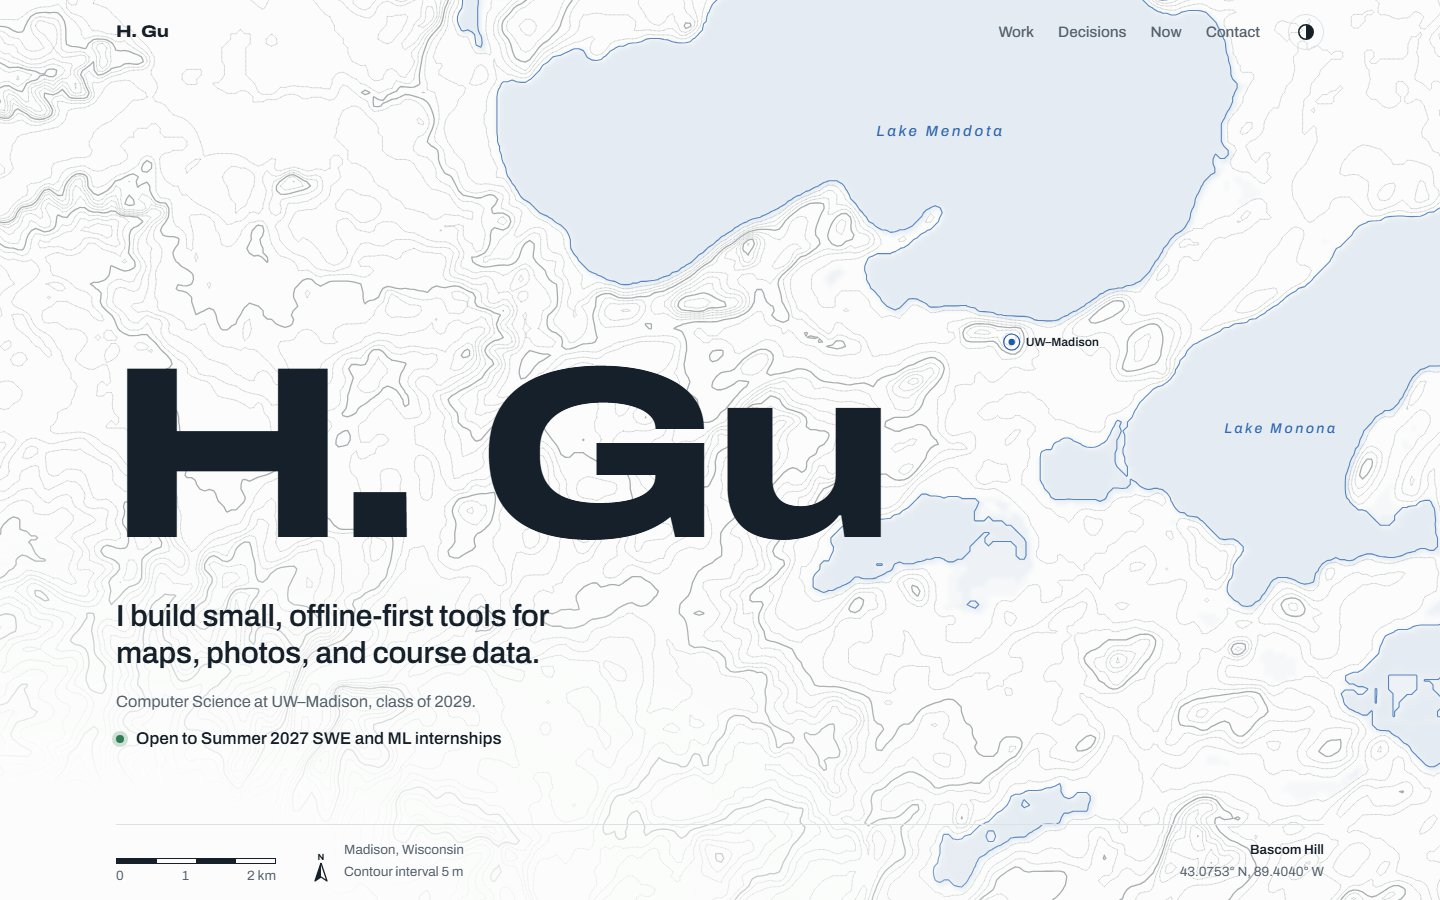
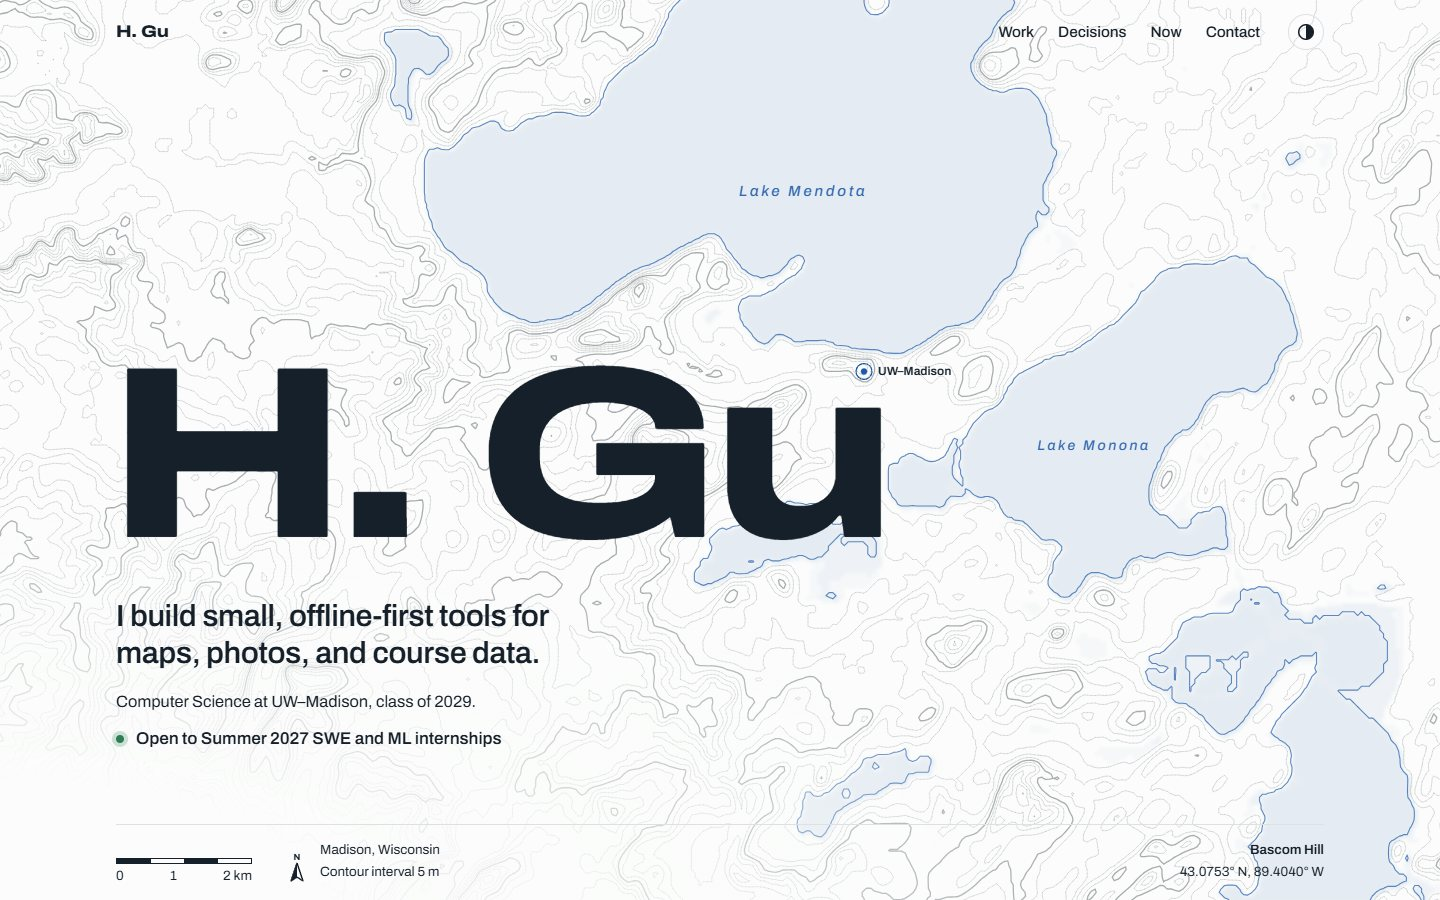
README: sections, work-page screenshots, scripts table

diff --git a/docs/screenshots.py b/docs/screenshots.py
@@ -1,36 +1,55 @@
-# Regenerate README screenshots of the site
+# Regenerate the README screenshots: the hero in both themes, three pages of the work section,
+# and the contact section. Needs Playwright with Chromium; WebGL runs on SwiftShader headless.
 import pathlib
 from playwright.sync_api import sync_playwright
 
 ROOT = pathlib.Path(__file__).resolve().parent.parent
 OUT = ROOT / "docs"
+# ?fx=2 keeps the WebGL tier on a software GPU; ?lab exposes filmGo() for turning pages
+URL = (ROOT / "index.html").as_uri() + "?fx=2&lab"
+ARGS = ["--lang=en-US", "--use-angle=swiftshader", "--enable-unsafe-swiftshader", "--ignore-gpu-blocklist"]
+
+
+def page(b, theme):
+    pg = b.new_page(viewport={"width": 1440, "height": 900}, locale="en-US")
+    # Dark is opt-in via the toggle, stored in localStorage; skip the once-per-session intro
+    pg.add_init_script(f"localStorage.setItem('theme', '{theme}'); sessionStorage.setItem('intro', '1')")
+    pg.goto(URL)
+    pg.wait_for_timeout(4000)
+    return pg
+
+
+def shot(pg, name):
+    pg.screenshot(path=str(OUT / f"{name}.jpg"), type="jpeg", quality=84)
+
+
+def to(pg, el_id, extra=0):
+    pg.evaluate(f"scrollTo({{top: document.getElementById('{el_id}').getBoundingClientRect().top + scrollY + {extra}, behavior: 'instant'}})")
+
 
 with sync_playwright() as p:
-    b = p.chromium.launch(headless=True, args=["--lang=en-US"])
+    b = p.chromium.launch(headless=True, args=ARGS)
     for theme in ["light", "dark"]:
-        page = b.new_page(viewport={"width": 1440, "height": 900}, locale="en-US", color_scheme=theme)
-        # Dark is opt-in via the toggle, stored in localStorage
-        page.add_init_script(f"localStorage.setItem('theme', '{theme}'); sessionStorage.setItem('intro', '1')")
-        page.goto((ROOT / "index.html").as_uri())
-        # Wait for the terrain reveal and intro to finish
-        page.wait_for_timeout(3500)
-        page.screenshot(path=str(OUT / f"{theme}.png"), full_page=False)
-        page.close()
-        if theme == "light":
-            # Case study with its figure drawn in
-            page = b.new_page(viewport={"width": 1440, "height": 900}, locale="en-US")
-            page.add_init_script("sessionStorage.setItem('intro', '1')")
-            page.goto((ROOT / "index.html").as_uri())
-            page.wait_for_timeout(1500)
-            page.evaluate("scrollTo({top: document.getElementById('datamap').getBoundingClientRect().top + scrollY, behavior: 'instant'})")
-            page.wait_for_timeout(2500)
-            page.screenshot(path=str(OUT / "work.png"), full_page=False)
-            page.close()
+        pg = page(b, theme)
+        shot(pg, theme)
+        pg.close()
+    # Work section: an overview page, a how-it-works page, and a project in the dark theme
+    pg = page(b, "light")
+    to(pg, "film"); pg.wait_for_timeout(6000)
+    shot(pg, "work-overview")
+    pg.evaluate("filmGo(1)"); pg.wait_for_timeout(6000)
+    shot(pg, "work-notes")
+    # Contact: click once so the particles gather into the word
+    to(pg, "contact"); pg.wait_for_timeout(2500)
+    box = pg.locator("#dust").bounding_box()
+    pg.mouse.click(box["x"] + 40, box["y"] + box["height"] - 40); pg.mouse.move(5, 5)
+    pg.wait_for_timeout(4000)
+    shot(pg, "contact")
+    pg.close()
+    pg = page(b, "dark")
+    to(pg, "film"); pg.wait_for_timeout(5000)
+    pg.evaluate("filmGo(2)"); pg.wait_for_timeout(6000)
+    shot(pg, "work-dark")
+    pg.close()
     b.close()
-
-# Shrink PNGs
-from PIL import Image
-for f in OUT.glob("*.png"):
-    Image.open(f).convert("RGB").save(f.with_suffix(".jpg"), quality=85, optimize=True)
-    f.unlink()
 print("saved to", OUT)

diff --git a/README.md b/README.md
@@ -1,33 +1,70 @@
 # webgrs.github.io
 
-Personal portfolio site: **<https://webgrs.github.io>**
+H. Gu's portfolio site, live at **<https://webgrs.github.io>**. It's a single `index.html`: no framework, no build step, no analytics. The one outside request is the Archivo typeface from Google Fonts.
 
-![Portfolio site, light theme](docs/light.jpg)
-
-![DataMap's case study on its deep blue panel, with the screenshot and a figure of its color ramps](docs/work.jpg)
+![The hero in the light theme: a contour map of Madison with the name over it](docs/light.jpg)
 
 <details><summary>Dark theme</summary>
 
-![Portfolio site, dark theme](docs/dark.jpg)
+![The hero in the dark theme](docs/dark.jpg)
 
 </details>
 
-One `index.html` plus project screenshots in `assets/`; no framework, trackers, or build step. It opens in the light theme; a toggle switches to dark and remembers the choice.
+## What's on the page
 
-- **Intro:** once per session, a loader over a pale aurora shader. The mark is five real contour lines of a hill northwest of Madison (43.132 N, 89.512 W, 337 m) drawn stroke by stroke; the percentage follows fonts, terrain decoding and the first map paint, then the sheet slides away.
-- **Hero:** a contour map of Madison drawn from real USGS 3DEP elevation data (5 m interval, marching squares in a worker on an OffscreenCanvas), revealed outward from campus. The contour under the pointer lights up in a wide, soft patch that spreads slowly and follows the pointer; on the WebGL tier the contours 5 m above and below light up with it, fainter. When the level changes the old patch shrinks back and fades where it stands, slowly enough that fast movement leaves a short trail rather than a flash. Hovering also reads out coordinates and elevation, and a north arrow draws itself in the legend.
-- **Effects tier:** 2 (WebGL), 1 (canvas) or 0 (lite), chosen from CPU threads, device memory, save-data, reduced motion and the GPU; a software GPU falls back to canvas. The console logs the tier and why. `?fx=0`, `?fx=1` or `?fx=2` forces a tier.
-- **Work index:** hovering a project shows its screenshot beside the cursor as a WebGL plane on a fine grid whose edges keep flowing in slow waves, so the rectangle moves on its own. Switching projects wipes one screenshot into the next. Pages opened from disk fall back to a plain box, since WebGL cannot read `file:` images. A stroke wave runs through the hovered name.
-- **Case studies:** each project is a full-screen panel coloured from its own screenshot: a deep base and two aurora hues sampled from the image's dominant colours, with the screenshot's own colours glowing out from behind it. A gradient carries the page from white into the first panel and back to white after the last. Near the seam between panels, one wheel notch or key press plays the whole transition to the next panel, and the rest of the gesture is held until it goes quiet, so a flick never stops halfway; inside a panel, scrolling is left alone. The panels scroll over one dark backdrop and each colour field fades in as its panel arrives and out as it leaves, so the colour changes continuously from project to project. A translucent liquid orb behind the content takes on each panel's colours. Every project has a small figure of how it works, and route-animator also gets a slowly turning globe of dotted continents (a 1° land mask built by `docs/land/build_land.py`) with its route and a few others.
-- **Background:** the same terrain continues behind the page as a faint sheet that scrolls slower than the content. Behind the decisions, particles run downhill over the real terrain; the tools and data sources are a constellation in which anything used by the same project is linked; a raymarched liquid sphere sits half hidden past the right edge of the Now list; a sine-wave signal line sits above the footer.
-- **Type:** the name rises letter by letter while Archivo's width axis opens from 62% to 125%. Headings arrive letter by letter with a slight turn and blur, paragraphs word by word, and the email address drops in. Screen readers get the plain text from a hidden copy.
-- **Contact:** Lake Mendota and Lake Monona again, as particles on springs. Every few seconds they sweep across into the word "hello" and back, changing from water blue to ink on the way. The pointer pushes them aside; a click switches the shape.
-- Copying the email swaps the text for "Copied" and underlines it; no ripple.
-- Motion respects `prefers-reduced-motion`, and every decorative canvas runs only while it is on screen.
+| Section | What it shows |
+|---|---|
+| Hero | A contour map of Madison drawn from real elevation data, with the name and a one-line intro |
+| Selected work | Six projects, each with its screenshot, notes and a figure of how it works |
+| Decisions I'd defend | Three engineering calls from those projects |
+| Stack and Now | The tools and data sources, linked by project; what's happening this term |
+| Contact | Email and GitHub, with the two lakes redrawn as particles |
 
-Motion patterns borrowed from Olivier Larose's [awwwards-landing-page](https://github.com/olivierlarose/awwwards-landing-page) (hover preview), [Lenis](https://github.com/darkroomengineering/lenis) (the `damp` function), Emil Kowalski's [animation tips](https://emilkowal.ski/ui/7-practical-animation-tips), and Vercel's [Web Interface Guidelines](https://github.com/vercel-labs/web-interface-guidelines). Some of the decorative effects started from a local gallery of motion studies.
+### Hero
 
-## Projects linked
+The map is traced from USGS 3DEP elevation (via Terrain Tiles on AWS) at a 5 m contour interval. Marching squares runs in a worker on an OffscreenCanvas, and the map reveals outward from campus. The contour under the pointer lights up in a soft patch that spreads slowly; on the WebGL tier the contours 5 m above and below light up with it, fainter. Hovering also reads out coordinates and elevation.
+
+Once per session a short loader plays first: five real contour lines of a hill northwest of Madison (43.132° N, 89.512° W, 337 m), drawn stroke by stroke while fonts and terrain load.
+
+### Selected work
+
+![route-animator's overview page: notes and a dotted globe on the left, the screenshot on the right with a teal orb behind it](docs/work-overview.jpg)
+
+The index lists the six projects. Hovering one shows its screenshot beside the cursor, with edges that ripple while the picture inside stays still.
+
+Below the index the projects become pages on one pinned stage: an overview with links and what it's built with, then the decisions behind it and a figure of how it works. Route-animator and photo-organizer have enough to say for two pages; the rest fit on one. Every page uses the same type scale, the largest at which all of them fit.
+
+![route-animator's second page: three points and the altitude figure](docs/work-notes.jpg)
+
+Paging works like slides. One wheel notch, key press or swipe plays the whole turn and holds the rest of the gesture until it goes quiet, so a transition never stops halfway; dragging the scrollbar lands on the nearest page. Between projects the screenshot glides to the other side while the next one dissolves in over it. Within a project only the notes change. The blocks of each page arrive in turn: the title letter by letter, then the summary, links, each point, and the figure, which draws itself in.
+
+Behind the screenshot sits a translucent liquid orb in a different colour for each project. It's drawn flat, a distance field with a rippling edge lit as if it were a sphere, so it costs little. With every project it swings to its next place and the new colour washes across it from the side it's heading to. A small droplet orbits it and merges with it now and then, and a few motes circle it on tilted orbits with fading trails, speeding up while it travels and easing off after.
+
+![uw-course-lookup in the dark theme, with a red orb behind the screenshot](docs/work-dark.jpg)
+
+### Contact
+
+![The contact section: the email address, mail and GitHub buttons, and particles forming the word hello](docs/contact.jpg)
+
+Lake Mendota and Lake Monona return as particles on springs. Every few seconds they sweep into the word "hello" and back, changing from water blue to ink, but never while the pointer is over them or for ten seconds after a click. The pointer pushes them aside and a click switches the shape. Clicking the address copies it.
+
+### Behind the page
+
+The terrain continues behind everything as a faint sheet that scrolls slower than the content (a ScrollTimeline, so it moves on the compositor), and fades out while the work pages fill the screen. Elsewhere: the stack as a constellation in which tools used by the same project are linked, a raymarched liquid sphere half past the edge of the Now list, and a sine-wave signal line above the footer.
+
+## Performance and accessibility
+
+The page picks an effects tier on load and logs the choice and the reason to the console:
+
+| Tier | What runs | Chosen when |
+|---|---|---|
+| 2 | WebGL map and effects | the default |
+| 1 | Canvas 2D | 4 or fewer CPU threads or 4 GB or less memory, or a software GPU |
+| 0 | Static | reduced motion, Save-Data, or 2 or fewer threads or 2 GB or less memory |
+
+`?fx=0`, `?fx=1` or `?fx=2` forces a tier. Every decorative canvas draws only while it's on screen, and canvases on work pages that aren't showing stop drawing. With `prefers-reduced-motion`, or in a window narrower than 900 px or shorter than 560 px, the work section becomes a plain list with the same content. Screen readers get plain-text copies of the animated headings. Secondary text is never grey; it's set in the ink colour and told apart by size and weight.
+
+## Projects shown
 
 - [route-animator](https://github.com/WEBGRS/route-animator): satellite-globe route videos in the browser
 - [uw-course-lookup](https://github.com/WEBGRS/uw-course-lookup): UW–Madison course lookup, linking to MadGrades and Rate My Professors
@@ -38,4 +75,23 @@ Motion patterns borrowed from Olivier Larose's [awwwards-landing-page](https://g
 
 ## Run locally
 
-Open `index.html` in a browser. `python docs/screenshots.py` rebuilds the images above. `python docs/figures.py` redraws the case-study figures. `python docs/terrain/build_terrain.py` re-fetches the elevation tiles and rewrites the terrain data embedded in `index.html`.
+```sh
+git clone https://github.com/WEBGRS/webgrs.github.io
+cd webgrs.github.io
+python -m http.server 8792
+```
+
+Then open <http://localhost:8792>. Opening `index.html` straight from disk works too, except the hover preview, which falls back to a plain box because WebGL can't read `file:` images.
+
+## Scripts
+
+| Script | What it does |
+|---|---|
+| `docs/screenshots.py` | Rebuilds the images in this README (Playwright with Chromium) |
+| `docs/figures.py` | Redraws the how-it-works figures and writes them into `index.html` |
+| `docs/terrain/build_terrain.py` | Re-fetches the elevation tiles and rewrites the terrain data embedded in `index.html` |
+| `docs/land/build_land.py` | Rebuilds the 1° land mask for the route-animator globe |
+
+## Credits
+
+Motion patterns borrowed from Olivier Larose's [awwwards-landing-page](https://github.com/olivierlarose/awwwards-landing-page) (hover preview), [Lenis](https://github.com/darkroomengineering/lenis) (the `damp` function), Emil Kowalski's [animation tips](https://emilkowal.ski/ui/7-practical-animation-tips), and Vercel's [Web Interface Guidelines](https://github.com/vercel-labs/web-interface-guidelines). Some of the decorative effects started from a local gallery of motion studies.
